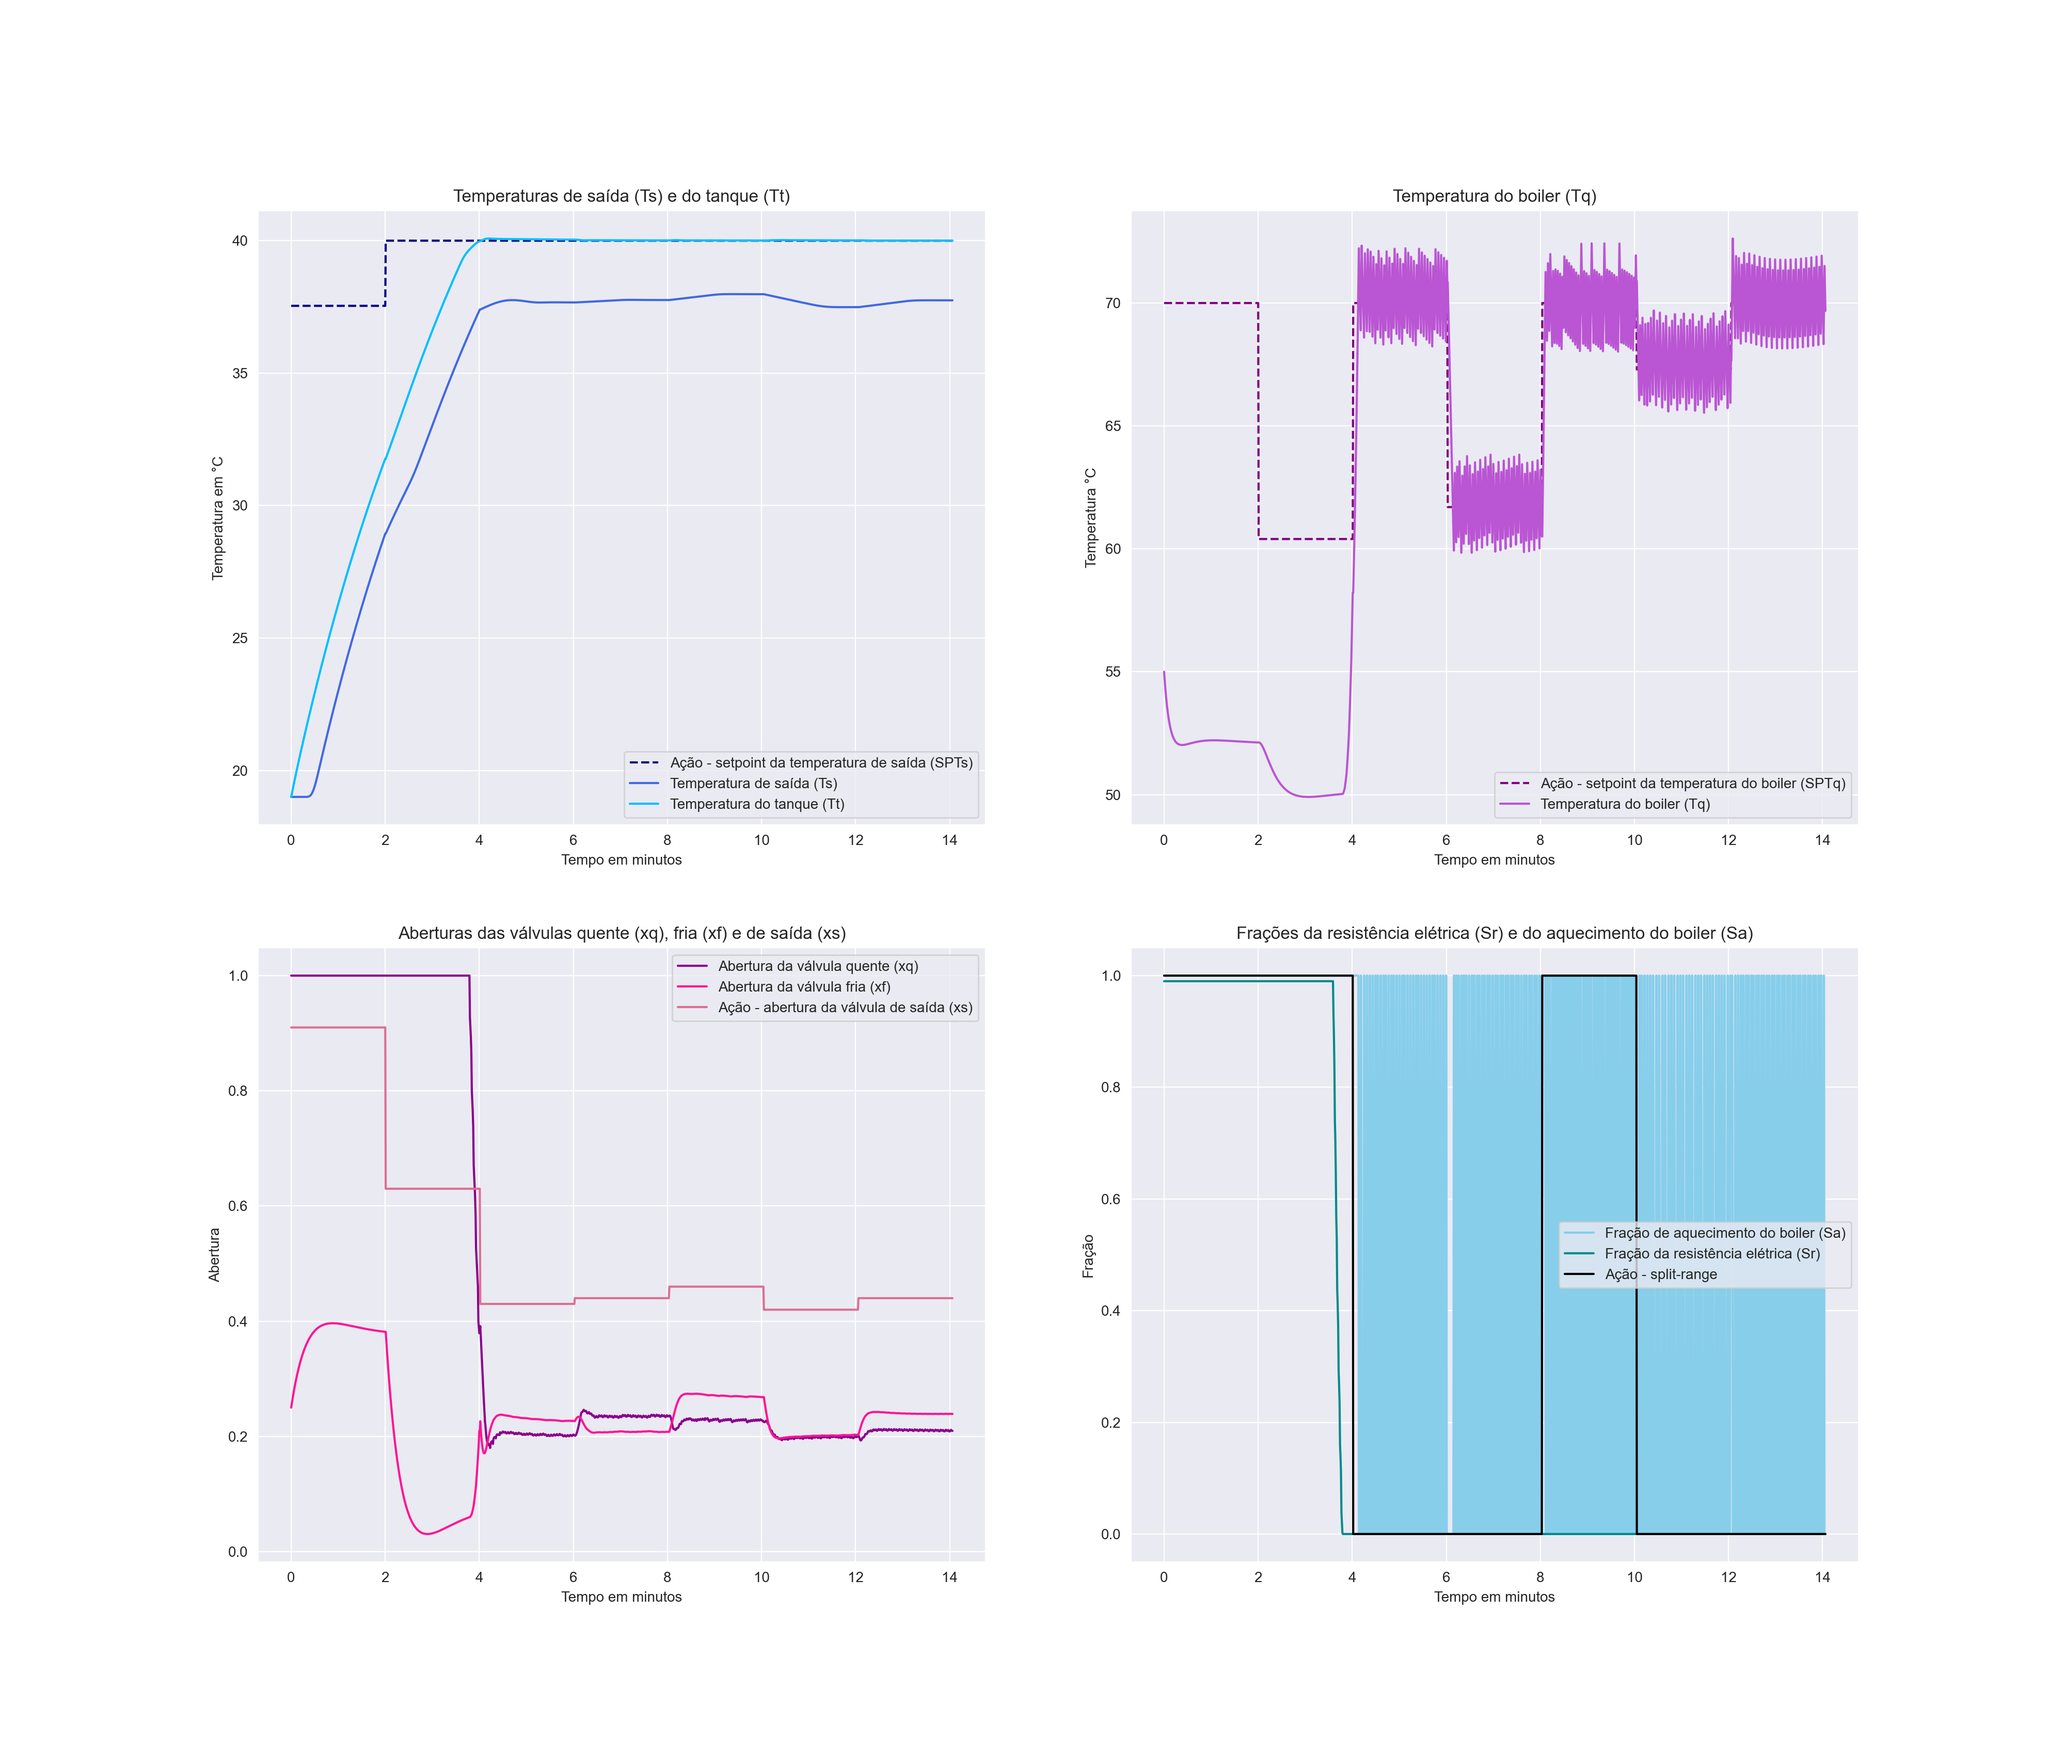
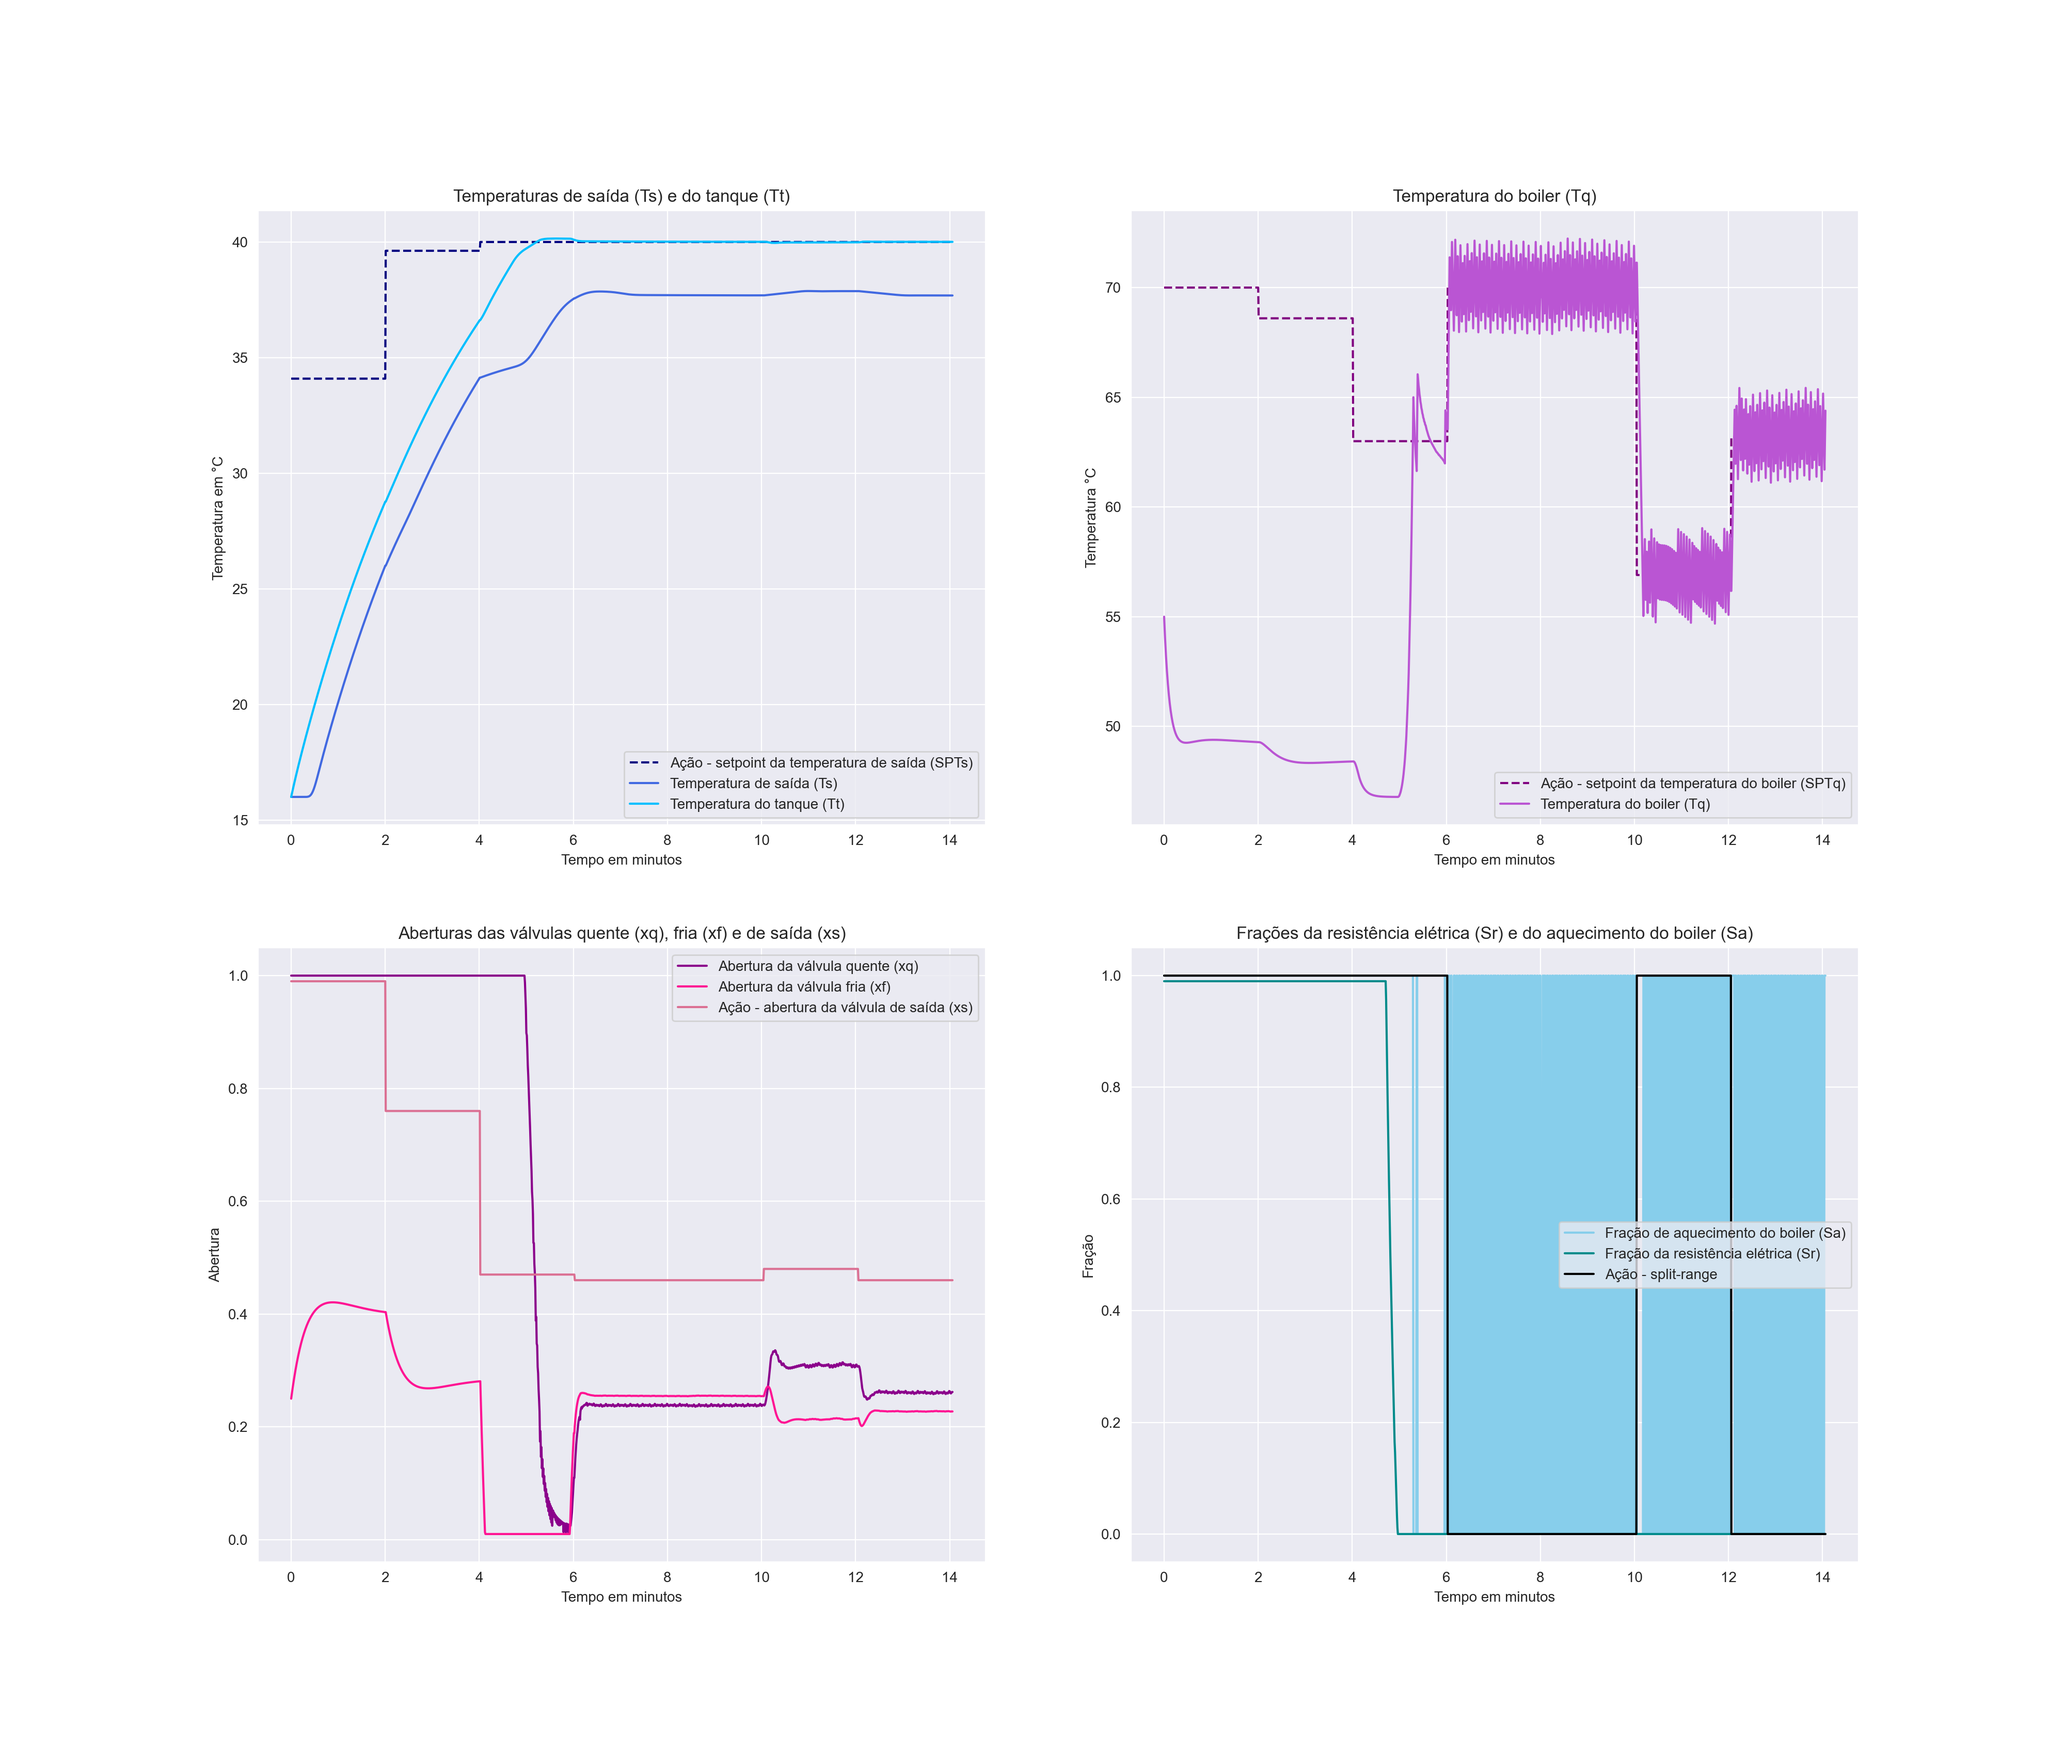
Results

diff --git a/treina_agente.py b/treina_agente.py
@@ -730,8 +730,8 @@ n_iter_checkpoints = 10
 # n_iter_checkpoints = 100
 
 # Treina e avalia o agente:
-treina = True
-avalia = False
+treina = False
+avalia = True
 
 if treina:
 
@@ -769,7 +769,7 @@ if treina:
 if avalia:
 
     # Define o concept e o selector:
-    concept = "banho_dia_quente"
+    concept = "banho_noite_fria"
     selector = True
 
     avalia_agente(nome_algoritmo, concept, selector)
